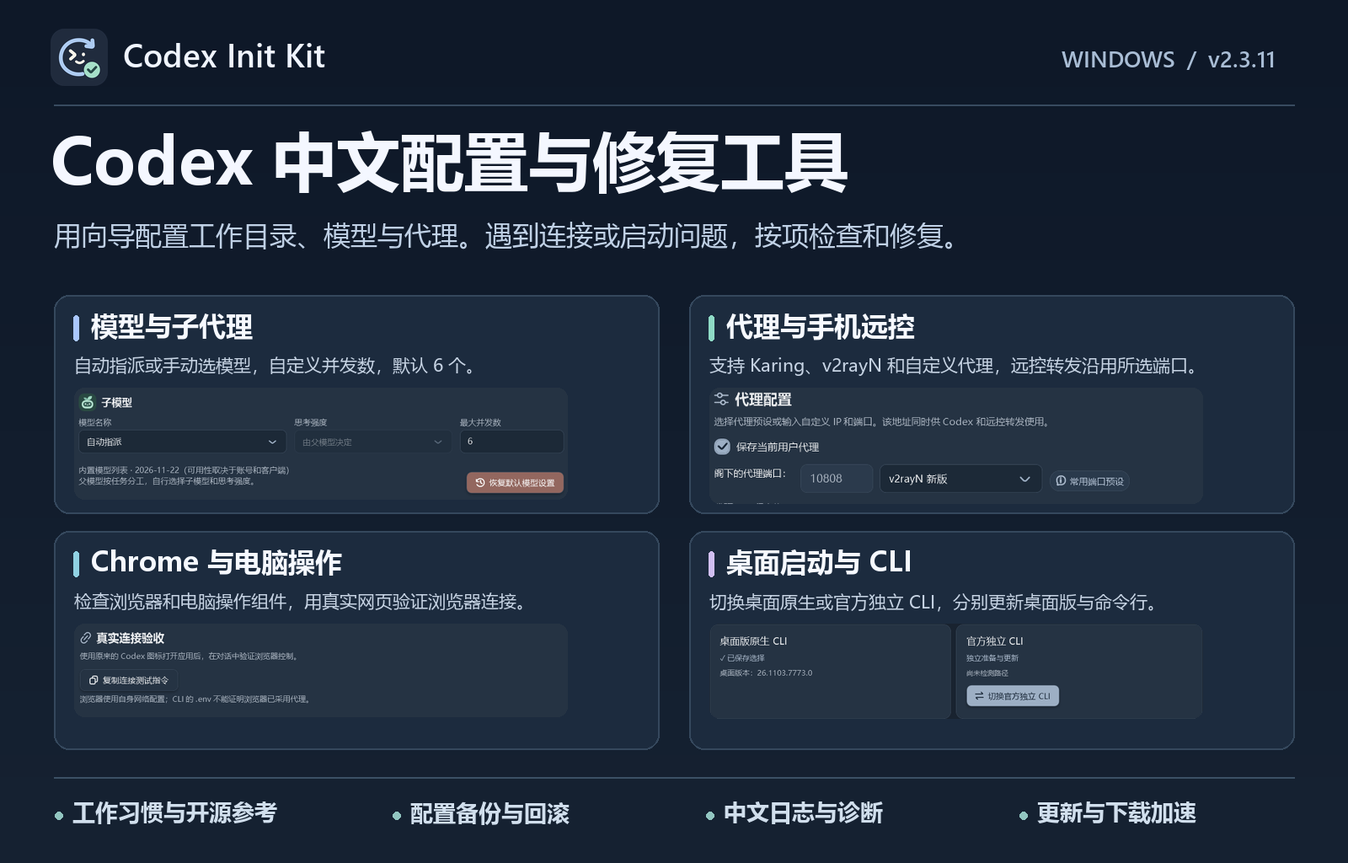
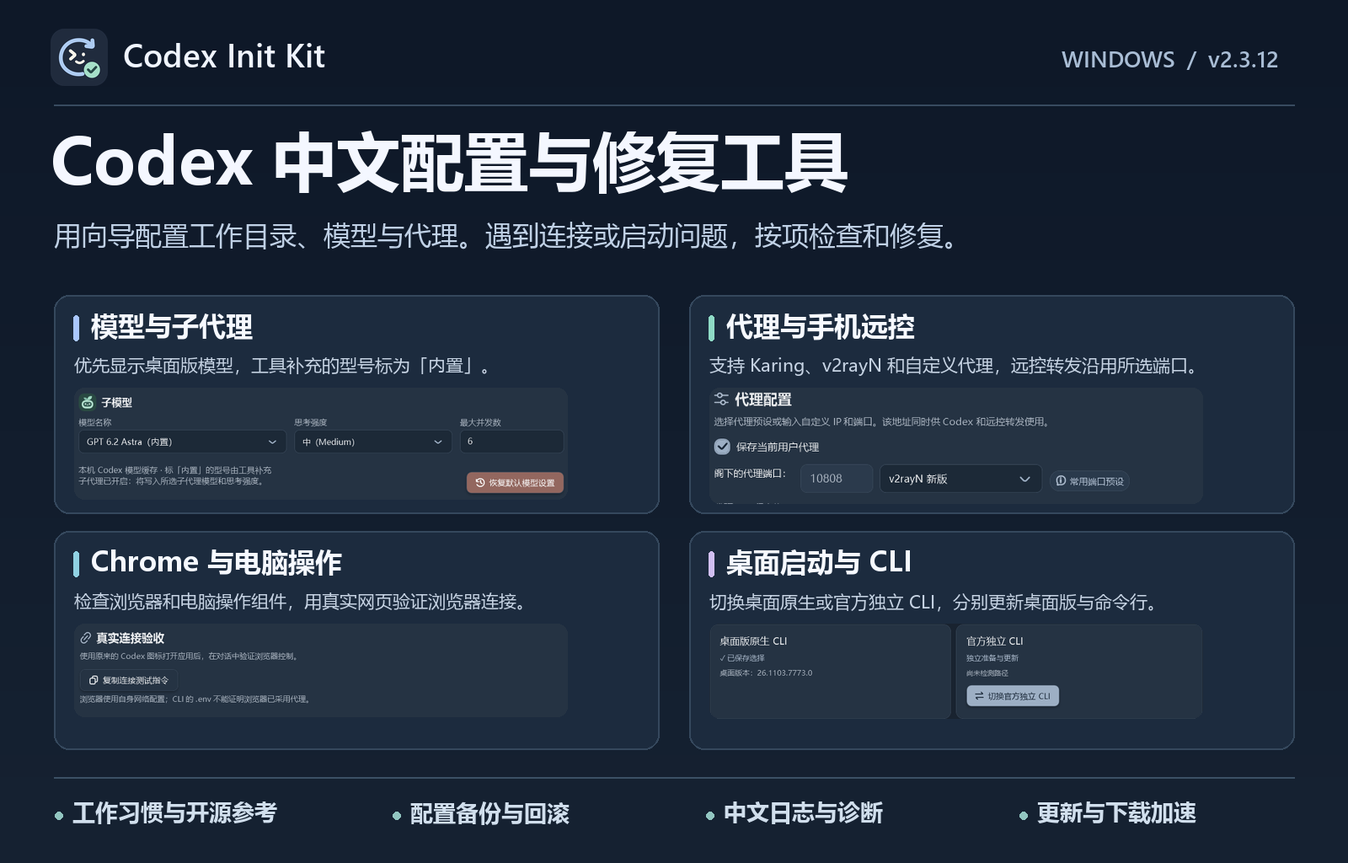
发布 v2.3.12：模型列表补全

Changed region(s): [[0.0625, 0.4062, 0.3438, 0.4375], [0.0625, 0.5, 0.2188, 0.5625], [0.2188, 0.5, 0.25, 0.5312]]

diff --git a/app/MainWindow.cs b/app/MainWindow.cs
@@ -85,7 +85,7 @@ public partial class MainWindow : Window {
         var defaults=Options();if(Convert.ToString(defaults["parentModel"])!="gpt-6.2-sol"||Convert.ToString(defaults["parentEffort"])!="medium"||!parentModel.IsEnabled||!parentEffort.IsEnabled||childModel.IsEnabled||childEffort.IsEnabled)throw new InvalidOperationException("Default parent model must be directly editable while subagents stay disabled");
         if(!parentModel.IsEnabled||!parentEffort.IsEnabled||childModel.IsEnabled||childEffort.IsEnabled)throw new InvalidOperationException("Disabled subagents allowed child selection");
         subagents.IsChecked=true;if(!childModel.IsEnabled||childEffort.IsEnabled||!AutoAssign)throw new InvalidOperationException("Default automatic assignment unavailable");parentModel.SelectedItem="gpt-6-astra";childModel.SelectedItem="gpt-6-luna";parentEffort.SelectedItem="ultra";childEffort.SelectedItem="high";settings=Options();if(Convert.ToString(settings["parentModel"])!="gpt-6-astra"||Convert.ToString(settings["childModel"])!="gpt-6-luna"||Convert.ToString(settings["parentEffort"])!="ultra"||Convert.ToString(settings["childEffort"])!="high"||parentModel.IsEditable||childModel.IsEditable||!InitSummary().Contains("GPT 6 Luna / 高（High）"))throw new InvalidOperationException("Preset model selection failed");
-        var presetModels=modelCatalog.Models.Keys;
+        var presetModels=modelCatalog.ModelIds;
         if(!parentModel.Items.Cast<string>().SequenceEqual(presetModels)||!childModel.Items.Cast<string>().SequenceEqual(new[]{AutoAssignLabel}.Concat(presetModels))||childEffort.Items.Contains("ultra"))throw new InvalidOperationException("Preset dropdown choices were lost");
         childModel.SelectedItem="gpt-5.6-luna";if(!childEffort.Items.Cast<string>().SequenceEqual(new[]{"low","medium","high","xhigh","max"}))throw new InvalidOperationException("Effort choices did not follow model selection");
         childEffort.ItemsSource=new[]{"ultra"};childEffort.SelectedItem="ultra";rejected=false;try{Options();}catch{rejected=true;}if(!rejected)throw new InvalidOperationException("Unsupported UI effort accepted");RefreshEfforts(childEffort,"gpt-5.6-luna","high");
@@ -119,7 +119,7 @@ public partial class MainWindow : Window {
         if(!mirrorNotes.Any(note=>note.Text=="顺序：官方 → 自定义 → 内置 10 个镜像")||
            !mirrorNotes.Any(note=>note.FontSize==12&&note.Text=="内置站点："+GitHubTransfer.BuiltInMirrorNames)||
            GitHubTransfer.BuiltInMirrorNames.Split('、').Length!=10)throw new InvalidDataException("GitHub mirror order or built-in site note is missing");
-        if(RenderedChoice(parentModel,"gpt-6.2-sol")!="GPT 6.2 Sol"||RenderedChoice(childModel,"gpt-6.2-astra")!="GPT 6.2 Astra"||RenderedChoice(childModel,"vendor/custom-id")!="vendor/custom-id")
+        if(RenderedChoice(parentModel,"gpt-6.2-sol")!="GPT 6.2 Sol（内置）"||RenderedChoice(childModel,"gpt-6.2-astra")!="GPT 6.2 Astra（内置）"||RenderedChoice(childModel,"vendor/custom-id")!="vendor/custom-id")
             throw new InvalidDataException("Incorrect model display name");
         if(RenderedChoice(parentEffort,"medium")!="中（Medium）"||RenderedChoice(childEffort,"xhigh")!="很高（Xhigh）"||Convert.ToString(Options()["parentEffort"])!="medium"||!InitSummary().Contains("GPT 6.2 Sol / 中（Medium）"))
             throw new InvalidDataException("Incorrect effort display name or stored value");
@@ -130,14 +130,14 @@ public partial class MainWindow : Window {
         wizard=1;Navigate("初始化");UpdateLayout(); wizard=2;Navigate("初始化");UpdateLayout();Navigate("日志");UpdateLayout();
         update=new Dictionary<string,object>{{"version",Core.Version}};ApplyUpdateState();if(updateNotice.Visibility!=Visibility.Collapsed)throw new InvalidOperationException("Update notice shown for current version");
         var current=new Version(Core.Version);update["version"]=new Version(current.Major,current.Minor,current.Build+1).ToString();ApplyUpdateState();Navigate("概览");UpdateLayout();if(updateNotice.Visibility!=Visibility.Visible||!updateStatus.Text.StartsWith("检测到更新"))throw new InvalidOperationException("Update notice missing");update=null;ApplyUpdateState();
-        ApplyCurrentModelSettings(new CurrentModelSettings{ParentModel="gpt-6-astra",ParentEffort="max",ChildModel="gpt-6-luna",ChildEffort="high"});settings=Options();
+        ApplyCurrentModelSettings(new CurrentModelSettings{HasSavedParent=true,ParentModel="gpt-6-astra",ParentEffort="max",ChildModel="gpt-6-luna",ChildEffort="high"});settings=Options();
         if((bool)settings["subagents"]||Convert.ToString(settings["childModel"])!="gpt-6-luna"||Convert.ToString(settings["childEffort"])!="high"||!InitSummary().Contains("保留模型设置 GPT 6 Luna / 高（High）"))throw new InvalidDataException("Disabled subagents lost inherited model preferences");
         subagents.IsChecked=true;settings=Options();
         if(Convert.ToString(settings["parentModel"])!="gpt-6-astra"||Convert.ToString(settings["parentEffort"])!="max"||Convert.ToString(settings["childModel"])!="gpt-6-luna"||Convert.ToString(settings["childEffort"])!="high")throw new InvalidDataException("Current model selections were not applied");
         parentModel.SelectedItem="gpt-6.1-terra";parentEffort.SelectedItem="ultra";subagents.IsChecked=false;subagents.IsChecked=true;Navigate("概览");Navigate("初始化");CheckModels();settings=Options();
         if(Convert.ToString(settings["parentModel"])!="gpt-6.1-terra"||Convert.ToString(settings["parentEffort"])!="ultra"||Convert.ToString(settings["childModel"])!="gpt-6-luna"||Convert.ToString(settings["childEffort"])!="high")throw new InvalidDataException("Navigation or model check changed a user selection");
-        if(!modelCheck.Text.Contains("配置核对通过：GPT 6.1 Terra / 极高（Ultra）")||!modelCheck.Text.Contains("配置核对通过：GPT 6 Luna / 高（High）"))throw new InvalidDataException("Model check labels were not formatted");
-        ApplyCurrentModelSettings(new CurrentModelSettings{ParentModel="future/model",ParentEffort="high",ChildModel="gpt-6-luna",ChildEffort="max"});CheckModels();settings=Options();
+        if(!modelCheck.Text.Contains("配置核对通过：GPT 6.1 Terra（内置） / 极高（Ultra）")||!modelCheck.Text.Contains("配置核对通过：GPT 6 Luna（内置） / 高（High）"))throw new InvalidDataException("Model check labels were not formatted");
+        ApplyCurrentModelSettings(new CurrentModelSettings{HasSavedParent=true,ParentModel="future/model",ParentEffort="high",ChildModel="gpt-6-luna",ChildEffort="max"});CheckModels();settings=Options();
         if(Convert.ToString(settings["parentModel"])!="future/model"||Convert.ToString(settings["childEffort"])!="max"||!modelCheck.Text.Contains("尚未验证"))throw new InvalidDataException("An inherited model or effort was not retained");
     }
     public void RenderPages(string directory){
@@ -213,7 +213,7 @@ public partial class MainWindow : Window {
         maxConcurrentSubagentsError.FontSize=12;
         maxConcurrentSubagentsError.TextWrapping=TextWrapping.Wrap;
         parentEffort.ItemTemplate=childEffort.ItemTemplate=LabelTemplate(new EffortLabels());
-        parentModel.ItemTemplate=childModel.ItemTemplate=LabelTemplate(new ModelLabels());
+        parentModel.ItemTemplate=childModel.ItemTemplate=LabelTemplate(new ModelLabels(modelCatalog));
         parentEffort.ItemsSource=ModelCatalog.CommonEfforts;parentEffort.SelectedItem=Core.DefaultParentEffort;childEffort.ItemsSource=ModelCatalog.CommonEfforts;childEffort.SelectedItem="medium";
         parentModel.Text=Core.DefaultParentModel;childModel.Text=AutoAssignLabel;
         foreach(var input in new[]{parentModel,childModel}){input.Style=(Style)Resources["KitCombo"];input.IsEditable=false;input.IsTextSearchEnabled=true;input.FontSize=14;input.ToolTip="可选择当前模型列表中的模型或已配置的自定义模型。";}
@@ -358,26 +358,31 @@ public partial class MainWindow : Window {
     static readonly string MaxConcurrentSubagentsError=MaxConcurrentSubagentsLabel+"须为 1 到 "+Core.MaxSupportedConcurrentSubagents.ToString(CultureInfo.InvariantCulture)+" 的整数。";
     bool AutoAssign { get { return Equals(childModel.SelectedItem,AutoAssignLabel); } }
     void ApplyCurrentModelSettings(CurrentModelSettings current){
-        modelCatalog.IncludeCurrent(current.ParentModel,current.ParentEffort);
+        if(current.HasSavedParent)modelCatalog.IncludeCurrent(current.ParentModel,current.ParentEffort);
         if(!current.AutoAssign)modelCatalog.IncludeCurrent(current.ChildModel,current.ChildEffort);
         RefreshModelChoices();
-        bool keepParent=modelCatalog.Models.ContainsKey(current.ParentModel);
+        bool keepParent=current.HasSavedParent&&modelCatalog.Models.ContainsKey(current.ParentModel);
         parentModel.SelectedItem=keepParent?current.ParentModel:DefaultAvailableParent();
         lastMaxConcurrentSubagents=current.MaxConcurrentSubagents;
         maxConcurrentSubagentsInput.Text=lastMaxConcurrentSubagents.ToString(CultureInfo.InvariantCulture);
         subagents.IsChecked=current.Subagents;
         childModel.SelectedItem=current.AutoAssign||!modelCatalog.Models.ContainsKey(current.ChildModel)?AutoAssignLabel:current.ChildModel;
-        SelectParentEffort(keepParent?current.ParentEffort:Core.DefaultParentEffort);
+        SelectParentEffort(!current.HasSavedParent||keepParent?current.ParentEffort:Core.DefaultParentEffort);
         if(!AutoAssign){
             RefreshEfforts(childEffort,current.ChildModel,"medium");
             childEffort.SelectedItem=current.ChildEffort;
         }
     }
-    string DefaultAvailableParent(){return modelCatalog.Models.ContainsKey(Core.DefaultParentModel)?Core.DefaultParentModel:modelCatalog.Models.Keys.First();}
+    string DefaultAvailableParent(){
+        var local=modelCatalog.ModelIds.Where(id=>modelCatalog.Models[id].Source==ModelSource.Desktop&&modelCatalog.Models[id].Efforts.Length>0);
+        if(local.Contains(Core.DefaultParentModel))return Core.DefaultParentModel;
+        return local.FirstOrDefault()??(modelCatalog.Models.ContainsKey(Core.DefaultParentModel)?Core.DefaultParentModel:modelCatalog.ModelIds.FirstOrDefault(id=>modelCatalog.Models[id].Efforts.Length>0));
+    }
     void SelectParentEffort(string preferred){
         var model=(string)parentModel.SelectedItem;
         RefreshEfforts(parentEffort,model,preferred);
-        var entry=modelCatalog.Models[model];
+        CatalogModel entry;
+        if(model==null||!modelCatalog.Models.TryGetValue(model,out entry)||entry.Efforts.Length==0)return;
         parentEffort.SelectedItem=entry.Efforts.Contains(preferred)?preferred:entry.Efforts.Contains(entry.DefaultEffort)?entry.DefaultEffort:entry.Efforts[0];
     }
     void ResetModelSettings(){
@@ -437,7 +442,7 @@ public partial class MainWindow : Window {
     }
     void RefreshModelChoices(){
         foreach(var combo in new[]{parentModel,childModel}){
-            var values=combo==parentModel?modelCatalog.Models.Keys.ToArray():new[]{AutoAssignLabel}.Concat(modelCatalog.Models.Keys).ToArray();
+            var values=combo==parentModel?modelCatalog.ModelIds.ToArray():new[]{AutoAssignLabel}.Concat(modelCatalog.ModelIds).ToArray();
             var current=Convert.ToString(combo.SelectedItem);
             if(current.Length==0)current=combo==parentModel?Core.DefaultParentModel:AutoAssignLabel;
             combo.ItemsSource=values;

diff --git a/app/ModelCatalog.cs b/app/ModelCatalog.cs
@@ -8,13 +8,18 @@ using System.Text.RegularExpressions;
 using System.Web.Script.Serialization;
 
 namespace CodexKit {
+public enum ModelSource { Desktop, BuiltIn, Saved }
 public sealed class CatalogModel {
     public string Id, DefaultEffort;
+    public ModelSource Source;
     public string[] Efforts;
     public readonly HashSet<string> UnverifiedEfforts=new HashSet<string>(StringComparer.Ordinal);
 }
 public sealed class ModelCatalog {
     public readonly Dictionary<string,CatalogModel> Models=new Dictionary<string,CatalogModel>(StringComparer.Ordinal);
+    readonly List<string> orderedIds=new List<string>();
+    public IEnumerable<string> ModelIds {get{return orderedIds;}}
+    void Add(CatalogModel model){Models.Add(model.Id,model);orderedIds.Add(model.Id);}
     readonly HashSet<string> unavailable=new HashSet<string>(StringComparer.Ordinal){"gpt-5.5","gpt-reserve","codex-auto-review"};
     public string Source="尚未读取本机模型列表";
     public static readonly string[] CommonEfforts={"none","minimal","low","medium","high","xhigh","max","ultra"};
@@ -24,50 +29,65 @@ public sealed class ModelCatalog {
         foreach(var id in new[]{"gpt-6.2-sol","gpt-6.2-astra","gpt-6.1-terra","gpt-6.1-sol","gpt-6-astra","gpt-6-sol","gpt-6-luna","gpt-5.6-sol","gpt-5.6-terra","gpt-5.6-luna"}){
             var efforts=id.EndsWith("-luna")?new[]{"low","medium","high","xhigh","max"}:new[]{"low","medium","high","xhigh","max","ultra"};
             var defaultEffort=id.StartsWith("gpt-6.2-",StringComparison.Ordinal)?"low":"medium";
-            result.Models[id]=new CatalogModel{Id=id,DefaultEffort=defaultEffort,Efforts=efforts};
+            result.Add(new CatalogModel{Id=id,Source=ModelSource.BuiltIn,DefaultEffort=defaultEffort,Efforts=efforts});
         }
         return result;
     }
     public static ModelCatalog Load(string home){
-        var preset=Preset();
         var cache=Path.Combine(home,"models_cache.json");
-        if(!File.Exists(cache))return preset;
+        if(!File.Exists(cache))return Preset();
         try{
-            var catalog=Parse(File.ReadAllText(cache,Encoding.UTF8));
-            catalog.unavailable.UnionWith(preset.Models.Keys.Except(catalog.Models.Keys));
-            return catalog;
-        }catch(IOException){return preset;}
-        catch(UnauthorizedAccessException){return preset;}
-        catch(InvalidDataException){return preset;}
-        catch(ArgumentException){return preset;}
-        catch(InvalidOperationException){return preset;}
+            return Parse(File.ReadAllText(cache,Encoding.UTF8));
+        }catch(IOException){return Preset();}
+        catch(UnauthorizedAccessException){return Preset();}
+        catch(InvalidDataException){return Preset();}
+        catch(ArgumentException){return Preset();}
+        catch(InvalidOperationException){return Preset();}
     }
     public static ModelCatalog Parse(string json) {
         var result=new ModelCatalog();var parser=new JavaScriptSerializer{MaxJsonLength=4*1024*1024};
         var root=parser.DeserializeObject(json) as Dictionary<string,object>;
         if(root==null||!root.ContainsKey("models"))throw new InvalidDataException("模型列表格式无法识别。");
-        var models=root["models"] as IEnumerable;if(models==null)throw new InvalidDataException("模型列表为空。");
-        foreach(var item in models) {
-            var row=item as Dictionary<string,object>;if(row==null)continue;
-            var id=Get(row,"slug");if(!ValidId(id))continue;
+        var models=root["models"] as object[];if(models==null)throw new InvalidDataException("模型列表格式无法识别。");
+        var rows=models.OfType<Dictionary<string,object>>().Where(row=>ValidId(Get(row,"slug"))).ToArray();
+        var preset=Preset();
+        if(rows.Length==0)return preset;
+        foreach(var row in rows){
             var visibility=Get(row,"visibility");
-            if(visibility.Length>0&&visibility!="list"){result.unavailable.Add(id);continue;}
-            if(result.unavailable.Contains(id))continue;
+            if(visibility.Length>0&&visibility!="list")result.unavailable.Add(Get(row,"slug"));
+        }
+        foreach(var row in rows){
+            var id=Get(row,"slug");
+            if(result.unavailable.Contains(id)||result.Models.ContainsKey(id))continue;
             var levels=new List<string>();object raw;
             if(row.TryGetValue("supported_reasoning_levels",out raw)&&raw is IEnumerable)foreach(var level in (IEnumerable)raw){var entry=level as Dictionary<string,object>;if(entry==null)continue;var effort=Get(entry,"effort");if(Regex.IsMatch(effort,"^[A-Za-z][A-Za-z0-9_-]{0,31}$")&&!levels.Contains(effort))levels.Add(effort);}
-            if(levels.Count>0)result.Models[id]=new CatalogModel{Id=id,DefaultEffort=Get(row,"default_reasoning_level"),Efforts=levels.ToArray()};
+            var model=new CatalogModel{Id=id,Source=ModelSource.Desktop,DefaultEffort=Get(row,"default_reasoning_level")};
+            if(levels.Count==0){
+                // Older caches may name a model without listing its reasoning levels.
+                CatalogModel fallback;
+                if(Regex.IsMatch(model.DefaultEffort,"^[A-Za-z][A-Za-z0-9_-]{0,31}$"))levels.Add(model.DefaultEffort);
+                else if(preset.Models.TryGetValue(id,out fallback)){
+                    levels.AddRange(fallback.Efforts);
+                    model.DefaultEffort=fallback.DefaultEffort;
+                    model.UnverifiedEfforts.UnionWith(levels);
+                }
+            }
+            model.Efforts=levels.ToArray();
+            result.Add(model);
         }
-        if(result.Models.Count==0)throw new InvalidDataException("本机没有可供核对的模型记录。");
+        foreach(var id in preset.ModelIds)
+            if(!result.Models.ContainsKey(id)&&!result.unavailable.Contains(id))result.Add(preset.Models[id]);
         DateTimeOffset fetched;var timestamp=Get(root,"fetched_at");
         result.Source="本机 Codex 模型缓存";
         if(DateTimeOffset.TryParse(timestamp,out fetched)){result.Source+=" · "+fetched.ToLocalTime().ToString("yyyy-MM-dd HH:mm");if(DateTimeOffset.UtcNow-fetched>TimeSpan.FromHours(24))result.Source+="（超过 24 小时）";}
+        if(result.Models.Values.Any(model=>model.Source==ModelSource.BuiltIn))result.Source+=" · 标「内置」的型号由工具补充";
         return result;
     }
     static string Get(Dictionary<string,object> row,string key){object value;return row.TryGetValue(key,out value)?Convert.ToString(value):"";}
     public void IncludeCurrent(string model,string effort) {
         if(unavailable.Contains(model))return;
         CatalogModel entry;
-        if(!Models.TryGetValue(model,out entry)){entry=new CatalogModel{Id=model,DefaultEffort=effort,Efforts=new string[0]};Models[model]=entry;}
+        if(!Models.TryGetValue(model,out entry)){entry=new CatalogModel{Id=model,Source=ModelSource.Saved,DefaultEffort=effort,Efforts=new string[0]};Add(entry);}
         if(!entry.Efforts.Contains(effort)){entry.Efforts=entry.Efforts.Concat(new[]{effort}).ToArray();entry.UnverifiedEfforts.Add(effort);}
     }
     public string Check(string model,string effort) {
@@ -75,12 +95,16 @@ public sealed class ModelCatalog {
         if(!Regex.IsMatch(effort??"","^[A-Za-z][A-Za-z0-9_-]{0,31}$"))throw new InvalidOperationException("请选择有效的思考强度。");
         CatalogModel entry;
         if(!Models.TryGetValue(model,out entry))throw new InvalidOperationException("模型不在当前列表中，请重新检查并从下拉框选择。");
-        var modelLabel=ModelLabels.Display(model);
+        var modelLabel=DisplayName(model);
         var effortLabel=EffortLabels.Display(effort);
         if(entry.Efforts.Length==0)return "已找到 "+modelLabel+"，但列表未提供思考强度；该强度尚未验证。";
-        if(!entry.Efforts.Contains(effort))throw new InvalidOperationException(modelLabel+" 的本机记录不支持 "+effortLabel+"；支持："+string.Join("、",entry.Efforts.Select(EffortLabels.Display)));
-        if(entry.UnverifiedEfforts.Contains(effort))return "保留当前配置："+modelLabel+" / "+effortLabel+"（尚未验证）。";
+        if(!entry.Efforts.Contains(effort))throw new InvalidOperationException(modelLabel+" 的可选强度为 "+string.Join("、",entry.Efforts.Select(EffortLabels.Display))+"。");
+        if(entry.UnverifiedEfforts.Contains(effort))return modelLabel+" / "+effortLabel+"（尚未验证）。";
         return "配置核对通过："+modelLabel+" / "+effortLabel+"。";
+    }
+    public string DisplayName(string id){
+        CatalogModel model;
+        return ModelLabels.Display(id)+(id!=null&&Models.TryGetValue(id,out model)&&model.Source==ModelSource.BuiltIn?"（内置）":"");
     }
 }
 }

diff --git a/tests/CurrentModelSettings.Tests.cs b/tests/CurrentModelSettings.Tests.cs
@@ -41,6 +41,9 @@ public static class CurrentModelSettingsTests {
         Assert(catalog.Check(current.ChildModel,current.ChildEffort).Contains("尚未验证"),"An inherited unknown model was lost or falsely verified");
         catalog.IncludeCurrent("gpt-6-luna","ultra");Assert(catalog.Check("gpt-6-luna","ultra").Contains("尚未验证"),"An inherited unknown effort was lost or falsely verified");
         catalog.IncludeCurrent("gpt-5.5","max");Assert(!catalog.Models.ContainsKey("gpt-5.5"),"A retired preset returned through saved settings");
+        var hiddenOnly=ModelCatalog.Parse("{\"models\":[{\"slug\":\"gpt-6.2-astra\",\"visibility\":\"hide\"}]}");
+        Assert(!hiddenOnly.Models.ContainsKey("gpt-6.2-astra")&&hiddenOnly.DisplayName("gpt-6.2-sol")=="GPT 6.2 Sol（内置）","An all-hidden cache lost exclusions during fallback");
+        Assert(catalog.DisplayName(current.ChildModel)==current.ChildModel,"Saved custom model incorrectly marked as built in");
         Write(config,"model = \"bad model\"\n");bool rejected=false;try{CurrentModelSettings.Load(home);}catch(InvalidDataException){rejected=true;}
         Assert(rejected,"Invalid current model silently became a default");
     }
@@ -154,7 +157,7 @@ public static class CurrentModelSettingsTests {
                 parentEffort.SelectedItem="max";
                 combo("childModel").SelectedItem="gpt-6.2-sol";
                 childEffort.SelectedItem="ultra";
-                ((CheckBox)type.GetField("antiOverDefense",flags).GetValue(window)).IsChecked=false;
+                ((CheckBox)type.GetField("cuaRepair",flags).GetValue(window)).IsChecked=false;
                 var beforeReset=(Dictionary<string,object>)optionsMethod.Invoke(window,null);
                 limit.Text="2.5";
                 reset.RaiseEvent(new RoutedEventArgs(Button.ClickEvent));
@@ -202,11 +205,34 @@ public static class CurrentModelSettingsTests {
                 try{
                     var flags=BindingFlags.Instance|BindingFlags.NonPublic;
                     Func<string,ComboBox> box=name=>(ComboBox)filtered.GetType().GetField(name,flags).GetValue(filtered);
-                    Assert(box("parentModel").Items.Cast<string>().SequenceEqual(new[]{"gpt-6.2-astra"})&&box("childModel").Items.Cast<string>().SequenceEqual(new[]{"自动指派","gpt-6.2-astra"}),"Unavailable models returned through the preset or saved configuration");
+                    var ids=box("parentModel").Items.Cast<string>().ToArray();
+                    Assert(ids[0]=="gpt-6.2-astra"&&ids.Contains("gpt-6.2-sol")&&!ids.Contains("gpt-6-luna")&&!ids.Contains("gpt-5.5")&&ids.Distinct().Count()==ids.Length,"Desktop models must precede missing presets and exclude hidden or retired models");
+                    Assert(box("childModel").Items.Cast<string>().SequenceEqual(new[]{"自动指派"}.Concat(ids)),"Child picker differs from parent picker");
+                    var render=typeof(MainWindow).GetMethod("RenderedChoice",BindingFlags.Static|BindingFlags.NonPublic);
+                    foreach(var name in new[]{"parentModel","childModel"}){
+                        Assert(Equals(render.Invoke(null,new object[]{box(name),"gpt-6.2-astra"}),"GPT 6.2 Astra"),"Desktop model marked as built in");
+                        Assert(Equals(render.Invoke(null,new object[]{box(name),"gpt-6.2-sol"}),"GPT 6.2 Sol（内置）"),"Missing preset source label");
+                    }
+                    box("parentModel").SelectedItem="gpt-6.2-astra";
+                    Assert(box("parentEffort").Items.Cast<string>().SequenceEqual(new[]{"low"}),"Built-in reasoning levels overrode local metadata");
+                    box("parentModel").SelectedItem=box("childModel").SelectedItem="gpt-6.2-sol";
+                    ((CheckBox)filtered.GetType().GetField("subagents",flags).GetValue(filtered)).IsChecked=true;
+                    var selected=(Dictionary<string,object>)filtered.GetType().GetMethod("Options",flags).Invoke(filtered,null);
+                    var port=(int)filtered.GetType().GetMethod("Port",flags).Invoke(filtered,null);
+                    var generated=Native.NativeInitializer.Config(new Native.NativePaths{Home=home,Workspace=root},NativeDesktopWorkflow.Options(selected,port));
+                    Assert(ManagedToml.SavedValue(generated,"model")=="gpt-6.2-sol"&&ManagedToml.SavedValue(generated,"agents","default_subagent_model")=="gpt-6.2-sol","Built-in source label leaked into configuration");
                     filtered.GetType().GetMethod("ResetModelSettings",flags).Invoke(filtered,null);
                     Assert(Equals(box("parentModel").SelectedItem,"gpt-6.2-astra")&&Equals(box("parentEffort").SelectedItem,"low")&&Equals(box("childModel").SelectedItem,"自动指派"),"Reset selected an unavailable model or effort");
                     Assert(File.ReadAllText(config).Contains("gpt-5.5"),"Filtering changed saved settings before initialization");
+                    Write(config,generated);
                 }finally{filtered.Close();}
+                var saved=new MainWindow(false);
+                try{
+                    foreach(var name in new[]{"parentModel","childModel"}){
+                        var box=(ComboBox)typeof(MainWindow).GetField(name,BindingFlags.Instance|BindingFlags.NonPublic).GetValue(saved);
+                        Assert(Equals(box.SelectedItem,"gpt-6.2-sol"),"Reopening replaced an explicitly selected built-in model");
+                    }
+                }finally{saved.Close();}
             }finally{File.Delete(cache);}
         } finally {Environment.SetEnvironmentVariable("CODEX_HOME",previous,EnvironmentVariableTarget.Process);}
     }

diff --git a/app/CurrentModelSettings.cs b/app/CurrentModelSettings.cs
@@ -8,7 +8,7 @@ namespace CodexKit {
 public sealed class CurrentModelSettings {
     public string ParentModel=Core.DefaultParentModel, ParentEffort=Core.DefaultParentEffort, ChildModel=Core.DefaultChildModel, ChildEffort=Core.DefaultChildEffort;
 
-    public bool Subagents, AutoAssign;
+    public bool Subagents, AutoAssign, HasSavedParent;
     public long MaxConcurrentSubagents=Native.NativeOptions.DefaultMaxConcurrentSubagents;
 
     public static string CodexHome() {
@@ -42,6 +42,7 @@ public sealed class CurrentModelSettings {
         var block=Regex.Match(agents,@"(?ms)^[ \t]*BEGIN CODEX LUNA PROMPT V[^\r\n]*\r?\n.*?^[ \t]*END CODEX LUNA PROMPT V[^\r\n]*\r?$");
         var managed=Values(block.Success?block.Value:"",false);
         var result=new CurrentModelSettings();
+        result.HasSavedParent=config.ContainsKey("model");
         var savedSwitch=Get(config,"agents.enabled",Get(config,"features.multi_agent",block.Success?"true":"false"));
         bool v2Enabled;
         ManagedToml.ReadSubagentSettings(configText,out v2Enabled,out result.MaxConcurrentSubagents);

diff --git a/app/ModelLabels.cs b/app/ModelLabels.cs
@@ -5,6 +5,8 @@ using System.Windows.Data;
 
 namespace CodexKit {
 public sealed class ModelLabels : IValueConverter {
+    readonly ModelCatalog catalog;
+    public ModelLabels(ModelCatalog catalog){this.catalog=catalog;}
     static readonly Regex GptModel = new Regex(@"^gpt-[0-9][a-z0-9.]*(?:-[a-z0-9]+)*\z", RegexOptions.CultureInvariant);
 
     public static string Display(string value) {
@@ -16,7 +18,7 @@ public sealed class ModelLabels : IValueConverter {
         return String.Join(" ", parts);
     }
 
-    public object Convert(object value,Type targetType,object parameter,CultureInfo culture){return Display(System.Convert.ToString(value));}
+    public object Convert(object value,Type targetType,object parameter,CultureInfo culture){return catalog.DisplayName(System.Convert.ToString(value));}
     public object ConvertBack(object value,Type targetType,object parameter,CultureInfo culture){throw new NotSupportedException();}
 }
 }

diff --git a/native/NativeCore.cs b/native/NativeCore.cs
@@ -13,7 +13,7 @@ using System.Web.Script.Serialization;
 namespace CodexKit.Native {
 public static class NativeRuntime { public static void Configure(){AppContext.SetSwitch("Switch.System.IO.UseLegacyPathHandling",false);AppContext.SetSwitch("Switch.System.IO.BlockLongPaths",false);} }
 public static class NativeData {
-    public const string Version="2.3.11";
+    public const string Version="2.3.12";
     public static readonly UTF8Encoding Utf8=new UTF8Encoding(false,true);
     public static readonly JavaScriptSerializer Json=new JavaScriptSerializer{MaxJsonLength=32*1024*1024};
     public static string Resource(string name){using(var s=Assembly.GetExecutingAssembly().GetManifestResourceStream("Native."+name)){if(s==null)throw new FileNotFoundException("缺少内嵌资源："+name);using(var r=new StreamReader(s,Utf8,true))return r.ReadToEnd();}}

diff --git a/app/AssemblyInfo.cs b/app/AssemblyInfo.cs
@@ -2,8 +2,8 @@ using System.Reflection;
 [assembly:AssemblyTitle("Codex Init Kit")]
 [assembly:AssemblyDescription("Codex workspace initialization, CUA repair and startup protection")]
 [assembly:AssemblyProduct("Codex Init Kit Desktop")]
-[assembly:AssemblyVersion("2.3.11.0")]
-[assembly:AssemblyFileVersion("2.3.11")]
-[assembly:AssemblyInformationalVersion("2.3.11")]
+[assembly:AssemblyVersion("2.3.12.0")]
+[assembly:AssemblyFileVersion("2.3.12")]
+[assembly:AssemblyInformationalVersion("2.3.12")]
 
 [assembly:System.Runtime.Versioning.TargetFramework(".NETFramework,Version=v4.8",FrameworkDisplayName=".NET Framework 4.8")]

diff --git a/app/Core.cs b/app/Core.cs
@@ -17,7 +17,7 @@ using System.Net.Sockets;
 
 namespace CodexKit {
 public static class Core {
-public const string Version = "2.3.11";
+public const string Version = "2.3.12";
     public const string Repository = "BerryFuwawa/codex-init-kit";
     public static readonly string Root = Path.Combine(Environment.GetFolderPath(Environment.SpecialFolder.LocalApplicationData), "CodexInitKit", "Desktop");
     public static string NetworkSettingsPath {get{return Path.Combine(Root,"network.json");}}

diff --git a/docs/Settings.md b/docs/Settings.md
@@ -99,7 +99,9 @@
 
 点击卡片右下角的「恢复默认模型设置」，父模型恢复为 GPT 6.2 Sol、强度中（Medium），子模型恢复为「自动指派」，最大并发数恢复为 6。多线程关闭时也可恢复这组值，子模型选项仍会置灰。确认初始化后才保存本次改动。
 
-工具优先读取本机 Codex 的模型列表。旧设置选中了已停用或隐藏的内置型号时，父模型会改为可用默认值，子模型会改为「自动指派」。如果 GPT 6.2 Sol 不在本机列表中，恢复默认会选列表中的首个可用型号和对应强度。已配置的自定义模型可以继续使用。缺少可读取的模型缓存时，下拉框使用这组内置型号。
+父模型和子模型都先列出本机 Codex 缓存中的型号，再补上工具自带的型号，例如「GPT 6.2 Sol（内置）」。同一型号只列一次，优先使用本机记录的思考强度。没有可读取的缓存时，工具提供的型号都会标为「内置」。实际可用性取决于账号和客户端。
+
+已隐藏或停用的型号不会补回，已配置的自定义模型可以继续使用。恢复默认时，如果本机模型列表里有其他可用型号，却没有 GPT 6.2 Sol，会选中首个本机可用型号。也可以手动选择带「内置」的型号，确认初始化后保存。
 
 | 模型 | 可选思考强度 |
 | --- | --- |

diff --git a/docs/Desktop.md b/docs/Desktop.md
@@ -6,7 +6,7 @@
 
 原生 WPF 中文桌面工具，集中管理 Codex 初始化、浏览器连接、组件修复、CLI 和备份。默认窗口约 1000 × 740，最小 800 × 540；小屏幕可滚动查看，支持 Windows 缩放。
 
-本文对应桌面版 v2.3.11。[下载桌面版](https://github.com/BerryFuwawa/codex-init-kit/releases/latest) · [更新说明](Release-2.3.11.md)
+本文对应桌面版 v2.3.12。[下载桌面版](https://github.com/BerryFuwawa/codex-init-kit/releases/latest) · [更新说明](Release-2.3.12.md)
 
 ## 遇到问题，先选哪项？
 

diff --git a/docs/Release-2.3.12.md b/docs/Release-2.3.12.md
@@ -1,0 +1,3 @@
+# v2.3.12 · 模型列表补全
+
+父模型和子模型现在优先显示桌面版的型号。旧版桌面缺少的型号由工具补充，并标为「内置」。同名型号只显示一次，保留桌面版的思考强度。
